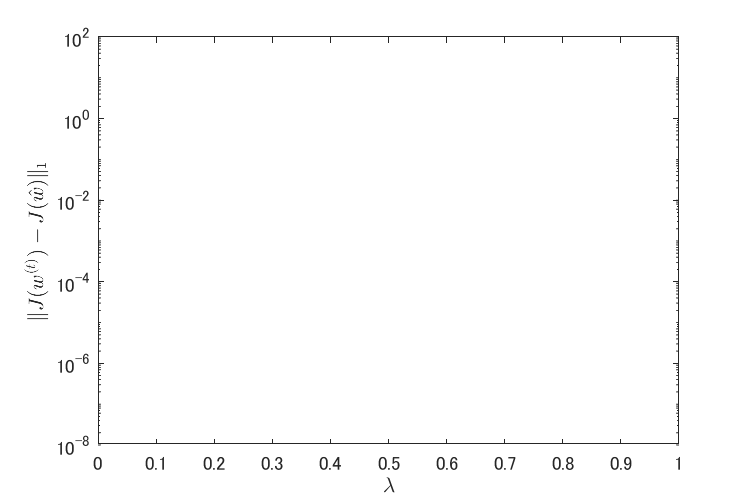
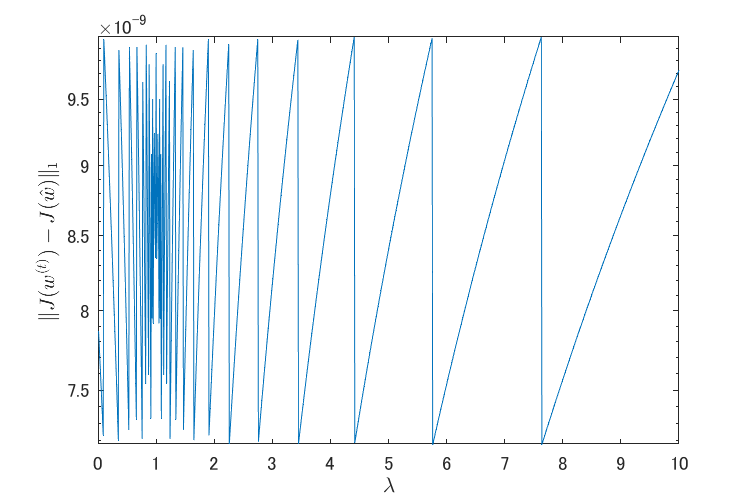
fix view range of result2_1

diff --git a/problem2/Standard_PG.m b/problem2/Standard_PG.m
@@ -3,7 +3,6 @@ function [w, converge_rate, i] = Standard_PG(data)
 % training setting
 stop_criteria = 1e-8;
 eta = 1/max(eig(data.A));
-gamma = 1/eta - 0.01;   % gamma^(-1) >= eta
 
 % function
 J = @(w) 1/2*((w - data.mu)')*data.A*(w - data.mu) + data.lambda*sum(abs(w));
@@ -11,14 +10,14 @@ dp = @(w) 1/2*(data.A + data.A')*(w - data.mu);
 ST = @(x, gamma) sign(x).*max(abs(x)-gamma, 0);
 
 % initializing
-w = randn(size(data.mu));
+w = zeros(size(data.mu));
 
 % main loop
 converge_rate = zeros(1, data.max_iteration);
 
 for i = 1:data.max_iteration
     w_pre = w;
-    w = ST(w_pre - eta*dp(w_pre), gamma);
+    w = ST(w_pre - eta*dp(w_pre), eta);
 
     converge_rate(i) = abs(J(w_pre) - J(w));
 

diff --git a/problem2/answer_1.m b/problem2/answer_1.m
@@ -10,10 +10,10 @@ data.max_iteration = 1000;
 lambda = 0.01:0.01:10.0;
 len = length(lambda);
 
+% learning
 w = zeros(2, len);
 optimal_cost = zeros(1, len);
 
-% learning
 for i = 1:len
     data.lambda = lambda(i);
     [w(:, i), converge_rate, idx] = Standard_PG(data);
@@ -26,7 +26,6 @@ f1 = figure;
 semilogy(lambda, optimal_cost);
 ylabel("$\| J(w^{(t)}) - J(\hat{w}) \|_1$", 'Interpreter','latex')
 xlabel("$\lambda$", 'Interpreter','latex')
-ylim([1e-8, 1e2])
 f1.Position(3:4) = [480 320];
 
 % save
